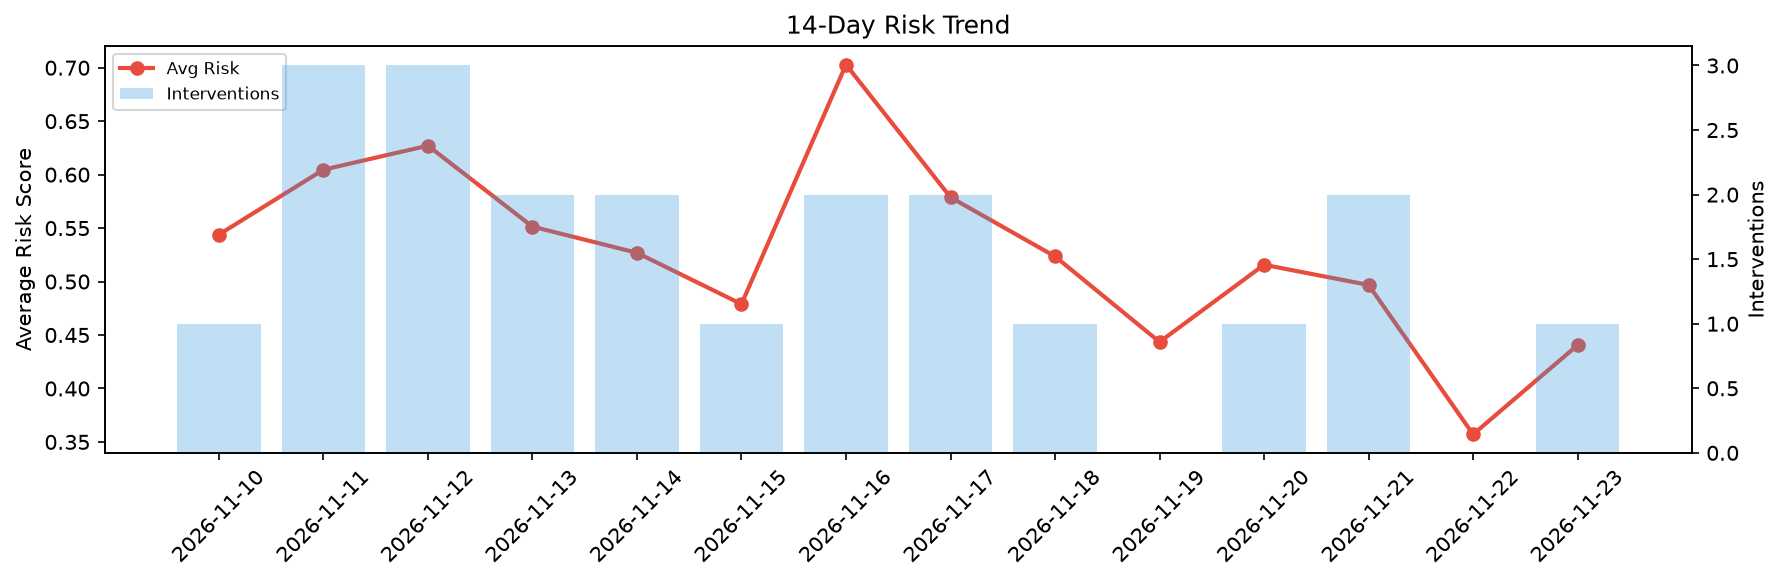
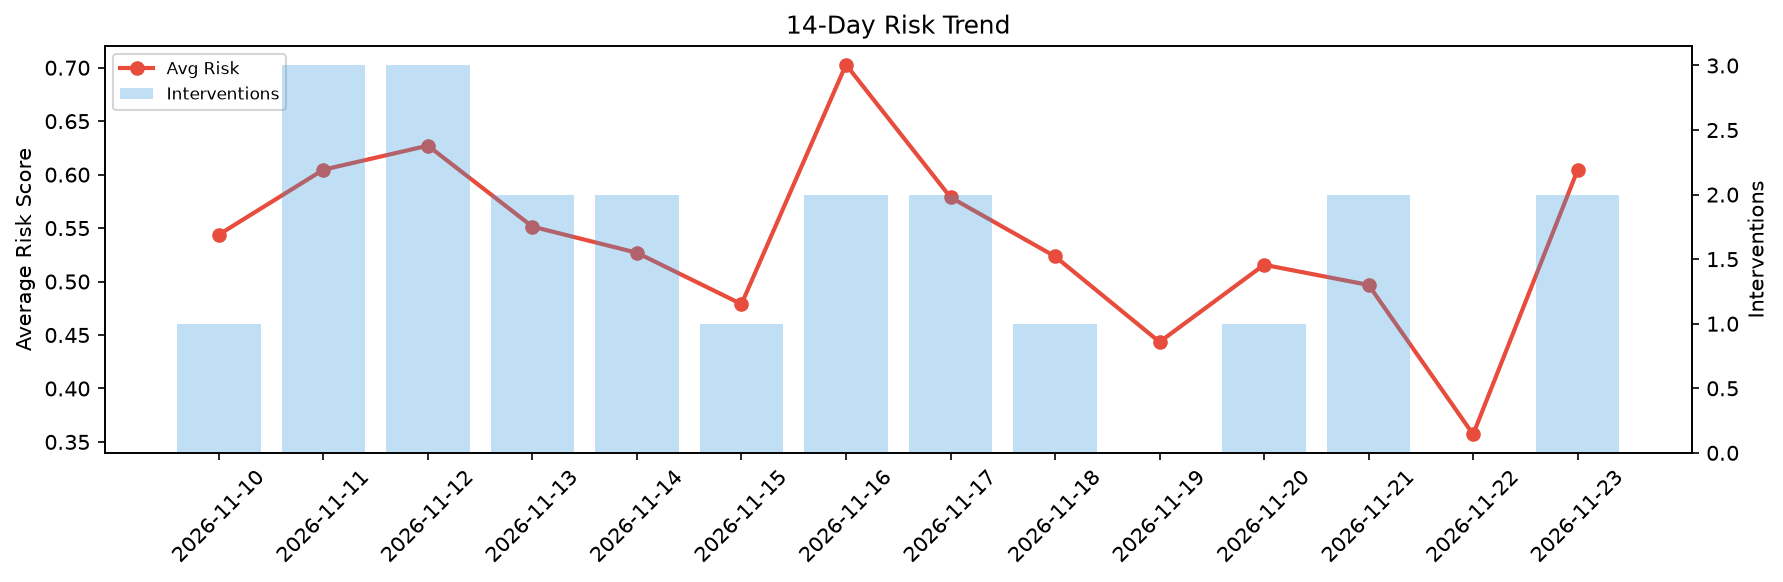
agent-improvement: daily cycle 2026-11-23T20:13

Changed region(s): [[0.8329, 0.2784, 0.9254, 0.5567], [0.8329, 0.5876, 0.8946, 0.7113], [0.802, 0.7113, 0.8329, 0.7423]]

diff --git a/logs/2026-11-23.md b/logs/2026-11-23.md
@@ -1,6 +1,6 @@
 # Agent Improvement Report — 2026-11-23
 
-**Cycle ID:** `68590132` | **Avg Risk:** 0.4406 | **Interventions:** 1/4
+**Cycle ID:** `637b0d79` | **Avg Risk:** 0.6044 | **Interventions:** 2/4
 
 ![Dashboard](2026-11-23_dashboard.png)
 
@@ -10,18 +10,18 @@
 
 | Domain | Risk Score | Decision | Alerts |
 |--------|-----------|----------|--------|
-| code_review | 0.0828 | monitor | none |
-| incident_response | 0.5909 | monitor | severity |
-| data_pipeline | 0.325 | monitor | none |
-| deployment | 0.7636 | intervene | rollback_rate, latency_p99 |
+| code_review | 0.7152 | intervene | complexity, coverage |
+| incident_response | 0.6008 | intervene | severity |
+| data_pipeline | 0.5259 | monitor | volume_anomaly |
+| deployment | 0.5757 | monitor | canary_error |
 
 ## Delta vs Yesterday
 
 | Domain | Today | Yesterday | Change |
 |--------|-------|-----------|--------|
-| code_review | 0.0828 | 0.471 | 📉 -82.4% |
-| incident_response | 0.5909 | 0.2265 | 📈 160.9% |
-| data_pipeline | 0.325 | 0.395 | 📉 -17.7% |
-| deployment | 0.7636 | 0.3358 | 📈 127.4% |
+| code_review | 0.7152 | 0.471 | 📈 51.8% |
+| incident_response | 0.6008 | 0.2265 | 📈 165.3% |
+| data_pipeline | 0.5259 | 0.395 | 📈 33.1% |
+| deployment | 0.5757 | 0.3358 | 📈 71.4% |
 
-**Refinement:** `{'adjustment': 'tighten_thresholds', 'trend': 'degrading', 'window': 4}`
+**Refinement:** `{'adjustment': 'maintain', 'trend': 'improving', 'window': 4}`
